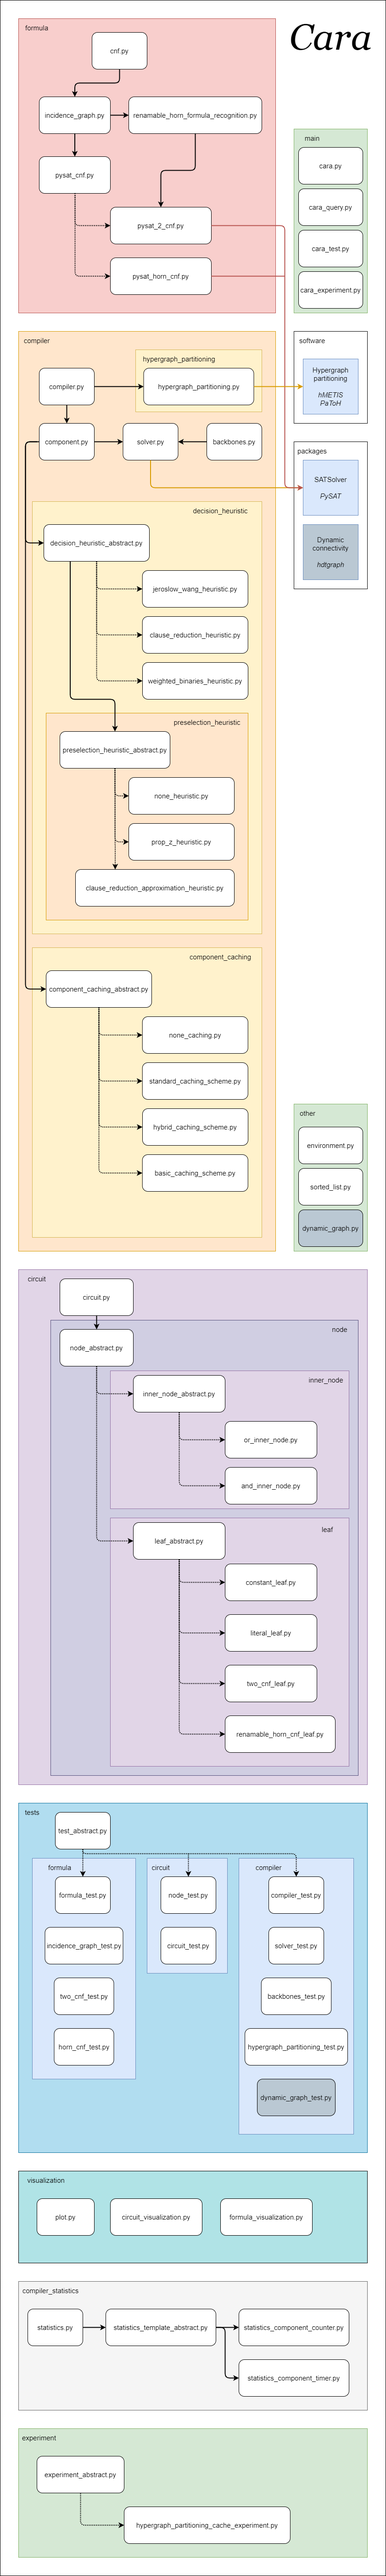
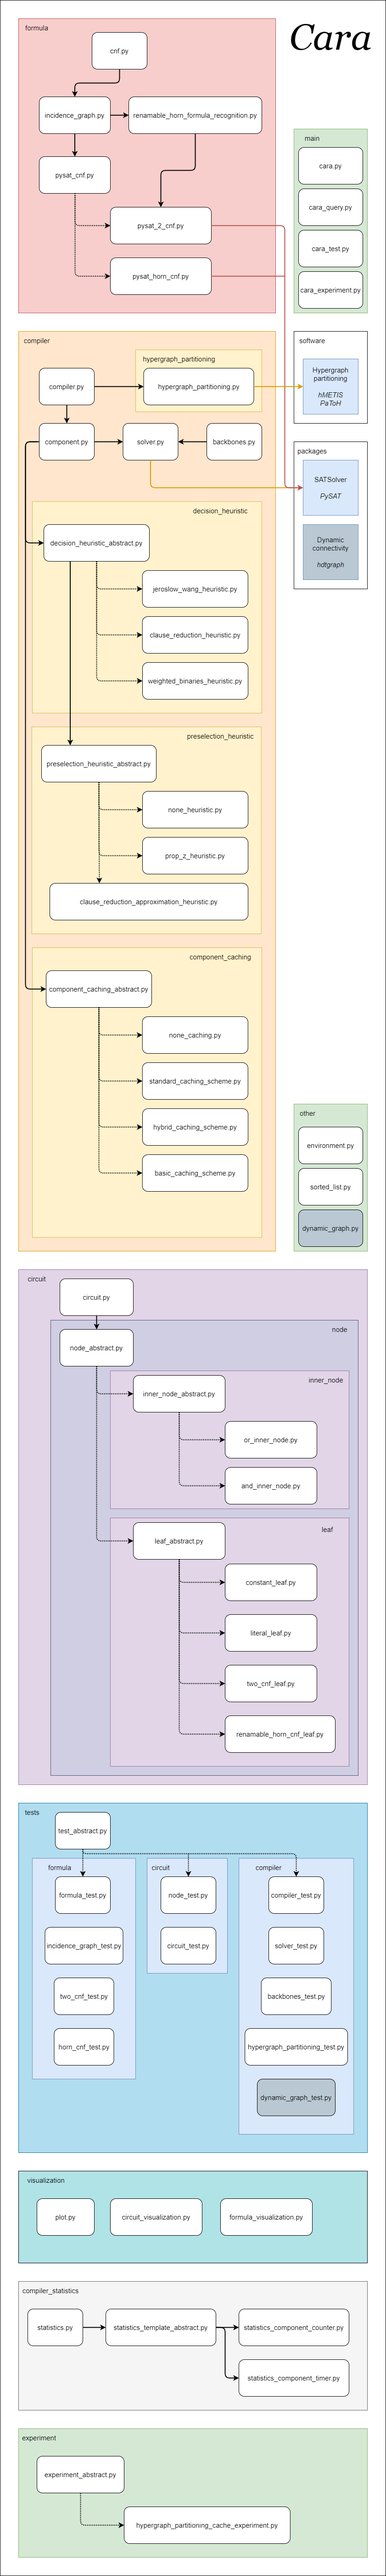
Decision Heuristic - skeleton

Changed region(s): [[0.0618, 0.2812, 0.6801, 0.3749]]

diff --git a/compiler/decision_heuristic/decision_heuristic_abstract.py b/compiler/decision_heuristic/decision_heuristic_abstract.py
@@ -1,0 +1,46 @@
+# Import
+from typing import Set, List
+from compiler.solver import Solver
+from abc import ABC, abstractmethod
+from formula.incidence_graph import IncidenceGraph
+from compiler.preselection_heuristic.preselection_heuristic_abstract import PreselectionHeuristicAbstract
+
+
+class DecisionHeuristicAbstract(ABC):
+    """
+    Decision heuristic
+    """
+
+    """
+    Private PreselectionHeuristicAbstract preselection_heuristic
+    """
+
+    def __init__(self, preselection_heuristic: PreselectionHeuristicAbstract):
+        self.__preselection_heuristic: PreselectionHeuristicAbstract = preselection_heuristic
+
+    # region Protected method
+    def _get_preselected_variables(self, incidence_graph: IncidenceGraph, depth: int) -> Set[int]:
+        """
+        Return a set of preselected variables based on the preselection heuristic
+        :param incidence_graph: an incidence graph
+        :param depth: depth of the node where the preselection is used
+        :return: a set of preselected variables
+        """
+
+        return self.__preselection_heuristic.preselect_variables(incidence_graph, depth)
+    # endregion
+
+    # region Abstract method
+    @abstractmethod
+    def get_decision_variable(self, incidence_graph: IncidenceGraph, solver: Solver, assignment_list: List[int], depth: int) -> int:
+        """
+        Compute a decision variable
+        :param incidence_graph: an incidence graph
+        :param solver: a solver
+        :param assignment_list: a partial assignment for the solver
+        :param depth: depth of the node
+        :return: a decision variable
+        """
+
+        pass
+    # endregion

diff --git a/compiler/decision_heuristic/weighted_binaries_heuristic.py b/compiler/decision_heuristic/weighted_binaries_heuristic.py
@@ -2,10 +2,8 @@
 from typing import List
 from compiler.solver import Solver
 from formula.incidence_graph import IncidenceGraph
-from compiler.decision_heuristic.decision_heuristic.decision_heuristic_abstract import DecisionHeuristicAbstract
-
-# Import enum
-import compiler.enum.decision_heuristic_preselection_enum as dhp_enum
+from compiler.decision_heuristic.decision_heuristic_abstract import DecisionHeuristicAbstract
+from compiler.preselection_heuristic.preselection_heuristic_abstract import PreselectionHeuristicAbstract
 
 
 class WeightedBinariesHeuristic(DecisionHeuristicAbstract):
@@ -13,8 +11,8 @@ class WeightedBinariesHeuristic(DecisionHeuristicAbstract):
     Weighted binaries - decision heuristic
     """
 
-    def __init__(self, preselection_heuristic_enum: dhp_enum.DecisionHeuristicPreselectionEnum):
-        super().__init__(preselection_heuristic_enum)
+    def __init__(self, preselection_heuristic: PreselectionHeuristicAbstract):
+        super().__init__(preselection_heuristic)
 
     # region Override method
     def get_decision_variable(self, incidence_graph: IncidenceGraph, solver: Solver, assignment_list: List[int]) -> int:

diff --git a/compiler/decision_heuristic/clause_reduction_heuristic.py b/compiler/decision_heuristic/clause_reduction_heuristic.py
@@ -2,10 +2,8 @@
 from typing import List
 from compiler.solver import Solver
 from formula.incidence_graph import IncidenceGraph
-from compiler.decision_heuristic.decision_heuristic.decision_heuristic_abstract import DecisionHeuristicAbstract
-
-# Import enum
-import compiler.enum.decision_heuristic_preselection_enum as dhp_enum
+from compiler.decision_heuristic.decision_heuristic_abstract import DecisionHeuristicAbstract
+from compiler.preselection_heuristic.preselection_heuristic_abstract import PreselectionHeuristicAbstract
 
 
 class ClauseReductionHeuristic(DecisionHeuristicAbstract):
@@ -13,8 +11,8 @@ class ClauseReductionHeuristic(DecisionHeuristicAbstract):
     Clause reduction - decision heuristic
     """
 
-    def __init__(self, preselection_heuristic_enum: dhp_enum.DecisionHeuristicPreselectionEnum):
-        super().__init__(preselection_heuristic_enum)
+    def __init__(self, preselection_heuristic: PreselectionHeuristicAbstract):
+        super().__init__(preselection_heuristic)
 
     # region Override method
     def get_decision_variable(self, incidence_graph: IncidenceGraph, solver: Solver, assignment_list: List[int]) -> int:

diff --git a/compiler/decision_heuristic/jeroslow_wang_heuristic.py b/compiler/decision_heuristic/jeroslow_wang_heuristic.py
@@ -2,10 +2,8 @@
 from typing import List
 from compiler.solver import Solver
 from formula.incidence_graph import IncidenceGraph
-from compiler.decision_heuristic.decision_heuristic.decision_heuristic_abstract import DecisionHeuristicAbstract
-
-# Import enum
-import compiler.enum.decision_heuristic_preselection_enum as dhp_enum
+from compiler.decision_heuristic.decision_heuristic_abstract import DecisionHeuristicAbstract
+from compiler.preselection_heuristic.preselection_heuristic_abstract import PreselectionHeuristicAbstract
 
 
 class JeroslowWangHeuristic(DecisionHeuristicAbstract):
@@ -13,8 +11,8 @@ class JeroslowWangHeuristic(DecisionHeuristicAbstract):
     Jeroslow-Wang - decision heuristic
     """
 
-    def __init__(self):
-        super().__init__(preselection_heuristic_enum=dhp_enum.DecisionHeuristicPreselectionEnum.NONE)
+    def __init__(self, preselection_heuristic: PreselectionHeuristicAbstract):
+        super().__init__(preselection_heuristic)
 
     # region Override method
     def get_decision_variable(self, incidence_graph: IncidenceGraph, solver: Solver, assignment_list: List[int]) -> int:

diff --git a/compiler/preselection_heuristic/clause_reduction_approximation_heuristic.py b/compiler/preselection_heuristic/clause_reduction_approximation_heuristic.py
@@ -1,7 +1,7 @@
 # Import
 from typing import Set
 from formula.incidence_graph import IncidenceGraph
-from compiler.decision_heuristic.preselection_heuristic.preselection_heuristic_abstract import PreselectionHeuristicAbstract
+from compiler.preselection_heuristic.preselection_heuristic_abstract import PreselectionHeuristicAbstract
 
 
 class ClauseReductionApproximationHeuristic(PreselectionHeuristicAbstract):
@@ -13,7 +13,7 @@ class ClauseReductionApproximationHeuristic(PreselectionHeuristicAbstract):
         super().__init__()
 
     # region Override method
-    def preselect_variables(self, incidence_graph: IncidenceGraph) -> Set[int]:
+    def preselect_variables(self, incidence_graph: IncidenceGraph, depth: int) -> Set[int]:
         # TODO
         pass
     # endregion

diff --git a/compiler/preselection_heuristic/none_heuristic.py b/compiler/preselection_heuristic/none_heuristic.py
@@ -1,7 +1,7 @@
 # Import
 from typing import Set
 from formula.incidence_graph import IncidenceGraph
-from compiler.decision_heuristic.preselection_heuristic.preselection_heuristic_abstract import PreselectionHeuristicAbstract
+from compiler.preselection_heuristic.preselection_heuristic_abstract import PreselectionHeuristicAbstract
 
 
 class NoneHeuristic(PreselectionHeuristicAbstract):
@@ -13,6 +13,6 @@ class NoneHeuristic(PreselectionHeuristicAbstract):
         super().__init__()
 
     # region Override method
-    def preselect_variables(self, incidence_graph: IncidenceGraph) -> Set[int]:
+    def preselect_variables(self, incidence_graph: IncidenceGraph, depth: int) -> Set[int]:
         return incidence_graph.variable_set(copy=False)
     # endregion

diff --git a/compiler/preselection_heuristic/prop_z_heuristic.py b/compiler/preselection_heuristic/prop_z_heuristic.py
@@ -1,7 +1,7 @@
 # Import
 from typing import Set
 from formula.incidence_graph import IncidenceGraph
-from compiler.decision_heuristic.preselection_heuristic.preselection_heuristic_abstract import PreselectionHeuristicAbstract
+from compiler.preselection_heuristic.preselection_heuristic_abstract import PreselectionHeuristicAbstract
 
 
 class PropZHeuristic(PreselectionHeuristicAbstract):
@@ -13,7 +13,7 @@ class PropZHeuristic(PreselectionHeuristicAbstract):
         super().__init__()
 
     # region Override method
-    def preselect_variables(self, incidence_graph: IncidenceGraph) -> Set[int]:
+    def preselect_variables(self, incidence_graph: IncidenceGraph, depth: int) -> Set[int]:
         # TODO
         pass
     # endregion

diff --git a/compiler/preselection_heuristic/preselection_heuristic_abstract.py b/compiler/preselection_heuristic/preselection_heuristic_abstract.py
@@ -14,10 +14,11 @@ class PreselectionHeuristicAbstract(ABC):
 
     # region Abstract method
     @abstractmethod
-    def preselect_variables(self, incidence_graph: IncidenceGraph) -> Set[int]:
+    def preselect_variables(self, incidence_graph: IncidenceGraph, depth: int) -> Set[int]:
         """
         Compute a set of preselected variables
         :param incidence_graph: an incidence graph
+        :param depth: depth of the node where this preselection is used
         :return: a set of preselected variables
         """
 
